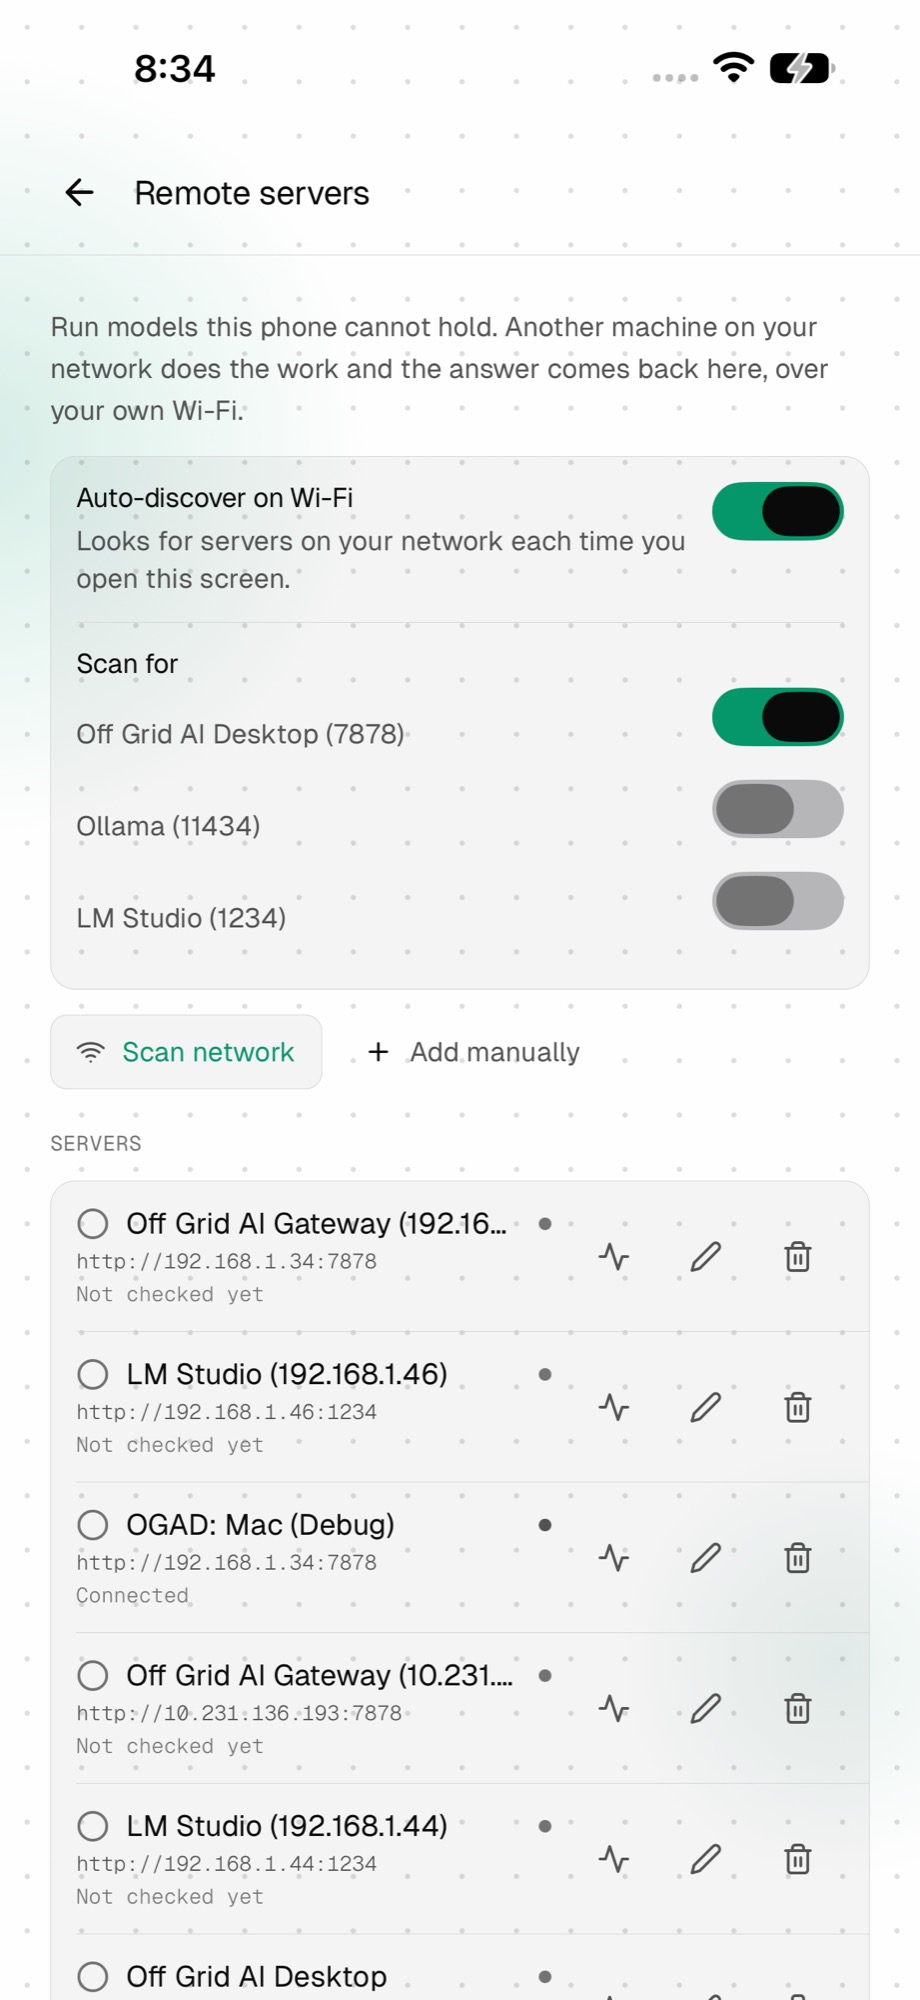
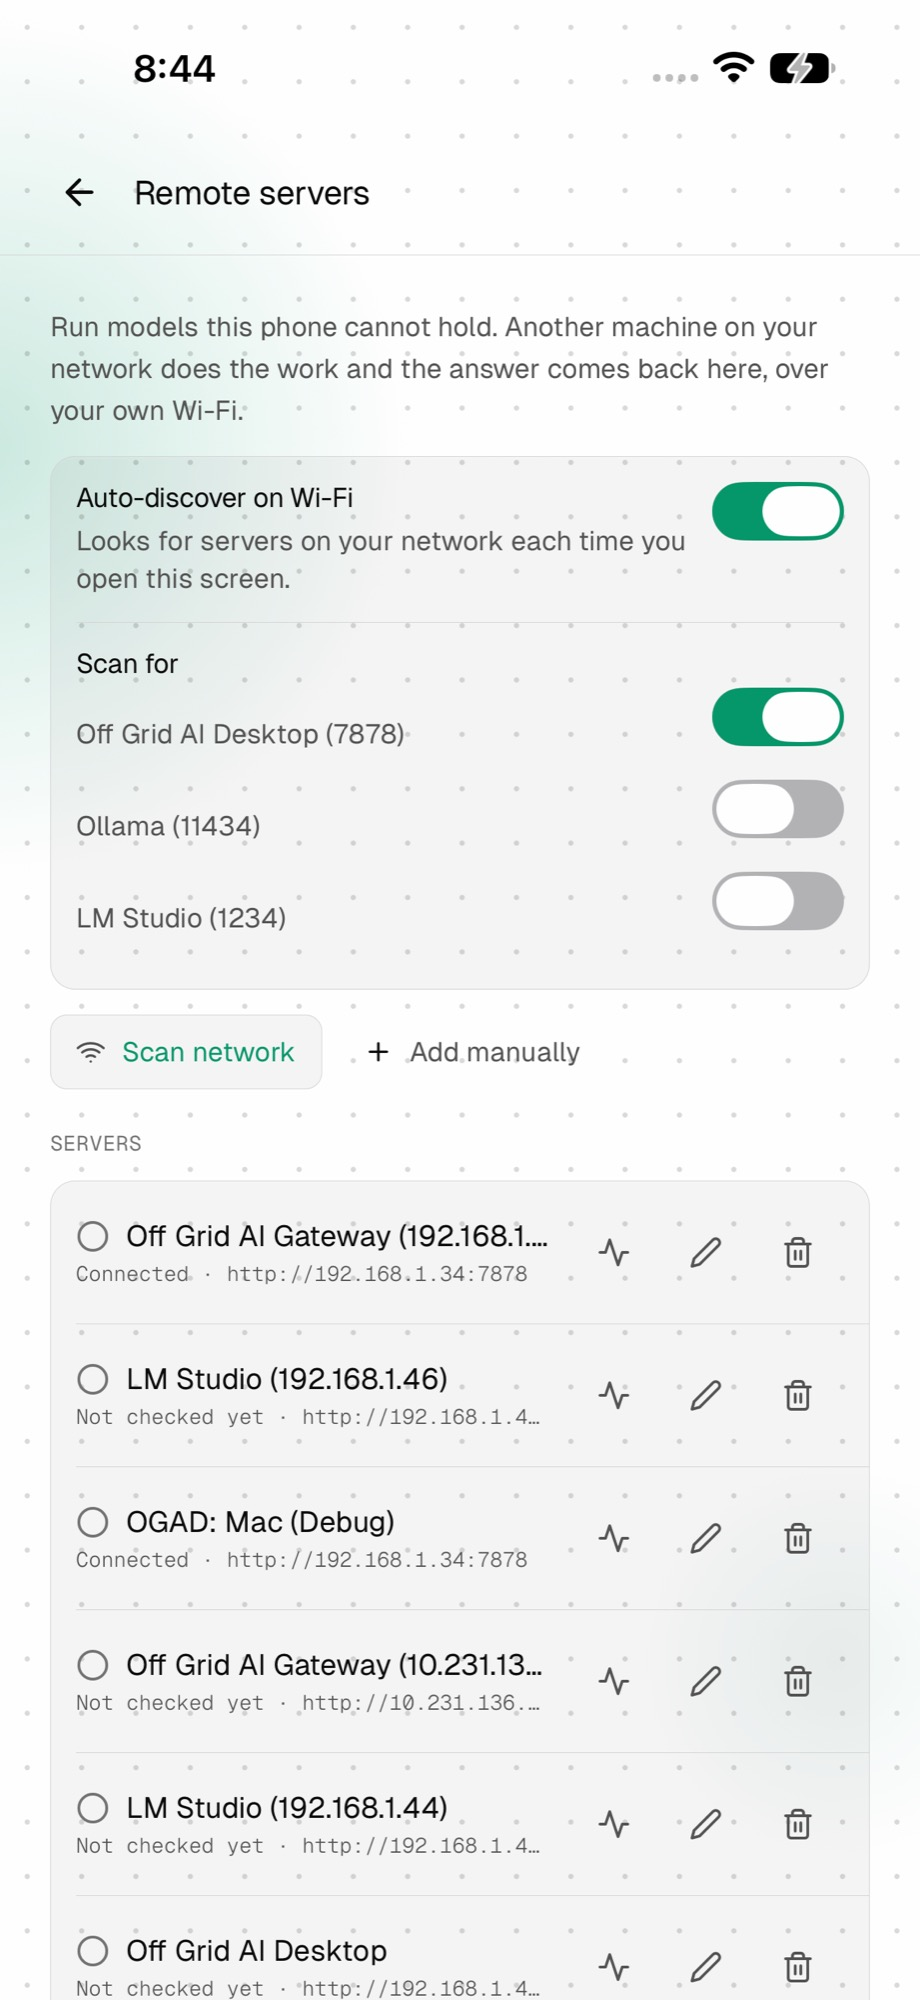
Ledger: hand test 63; review screens from build 64

diff --git a/docs/PLAY_LEDGER.md b/docs/PLAY_LEDGER.md
@@ -573,3 +573,7 @@ Pass: Home, Chats, Projects, Knowledge base, Models Text and Documents, Download
 ## Supervisor 23:00 (hand test 62, build 63 at df7de502c) — 13 of 26 pass (was 9)
 
 Newly passing: project, settings-model, security, engine updates. Fail: settings-lower (5 cards), remote servers, storage, device info, about, gallery + viewer, chat (3 meta rows, emerald user border), chat settings sheet (Delete fixed after this build), chat options (gold Pro crown), tools and pro tools. Worst 5: Pro tools layout (sticky info box, one card per tool, model-facing text), chat meta rows, chat settings sheet, gallery, black switch thumbs on 4 screens. Screens take ~2 s to settle.
+
+## Supervisor 00:20 (hand test 63, build 64) — 15 of 26 pass (was 13)
+
+Newly passing: chat settings sheet, Delete at the end; white switch knobs in. Fail: chat (3 meta rows), chat options (gold Pro crown and pill), Pro tools (MCP server cards: letter tile, Active pill, trash), Tools (model-facing footer, "Tools 0" with Knowledge base on), settings-lower (6 unlabelled cards), remote servers (3 icons + radio), device info (tier boxes), storage (4 cards, empty Leftover files), about, gallery + viewer.
